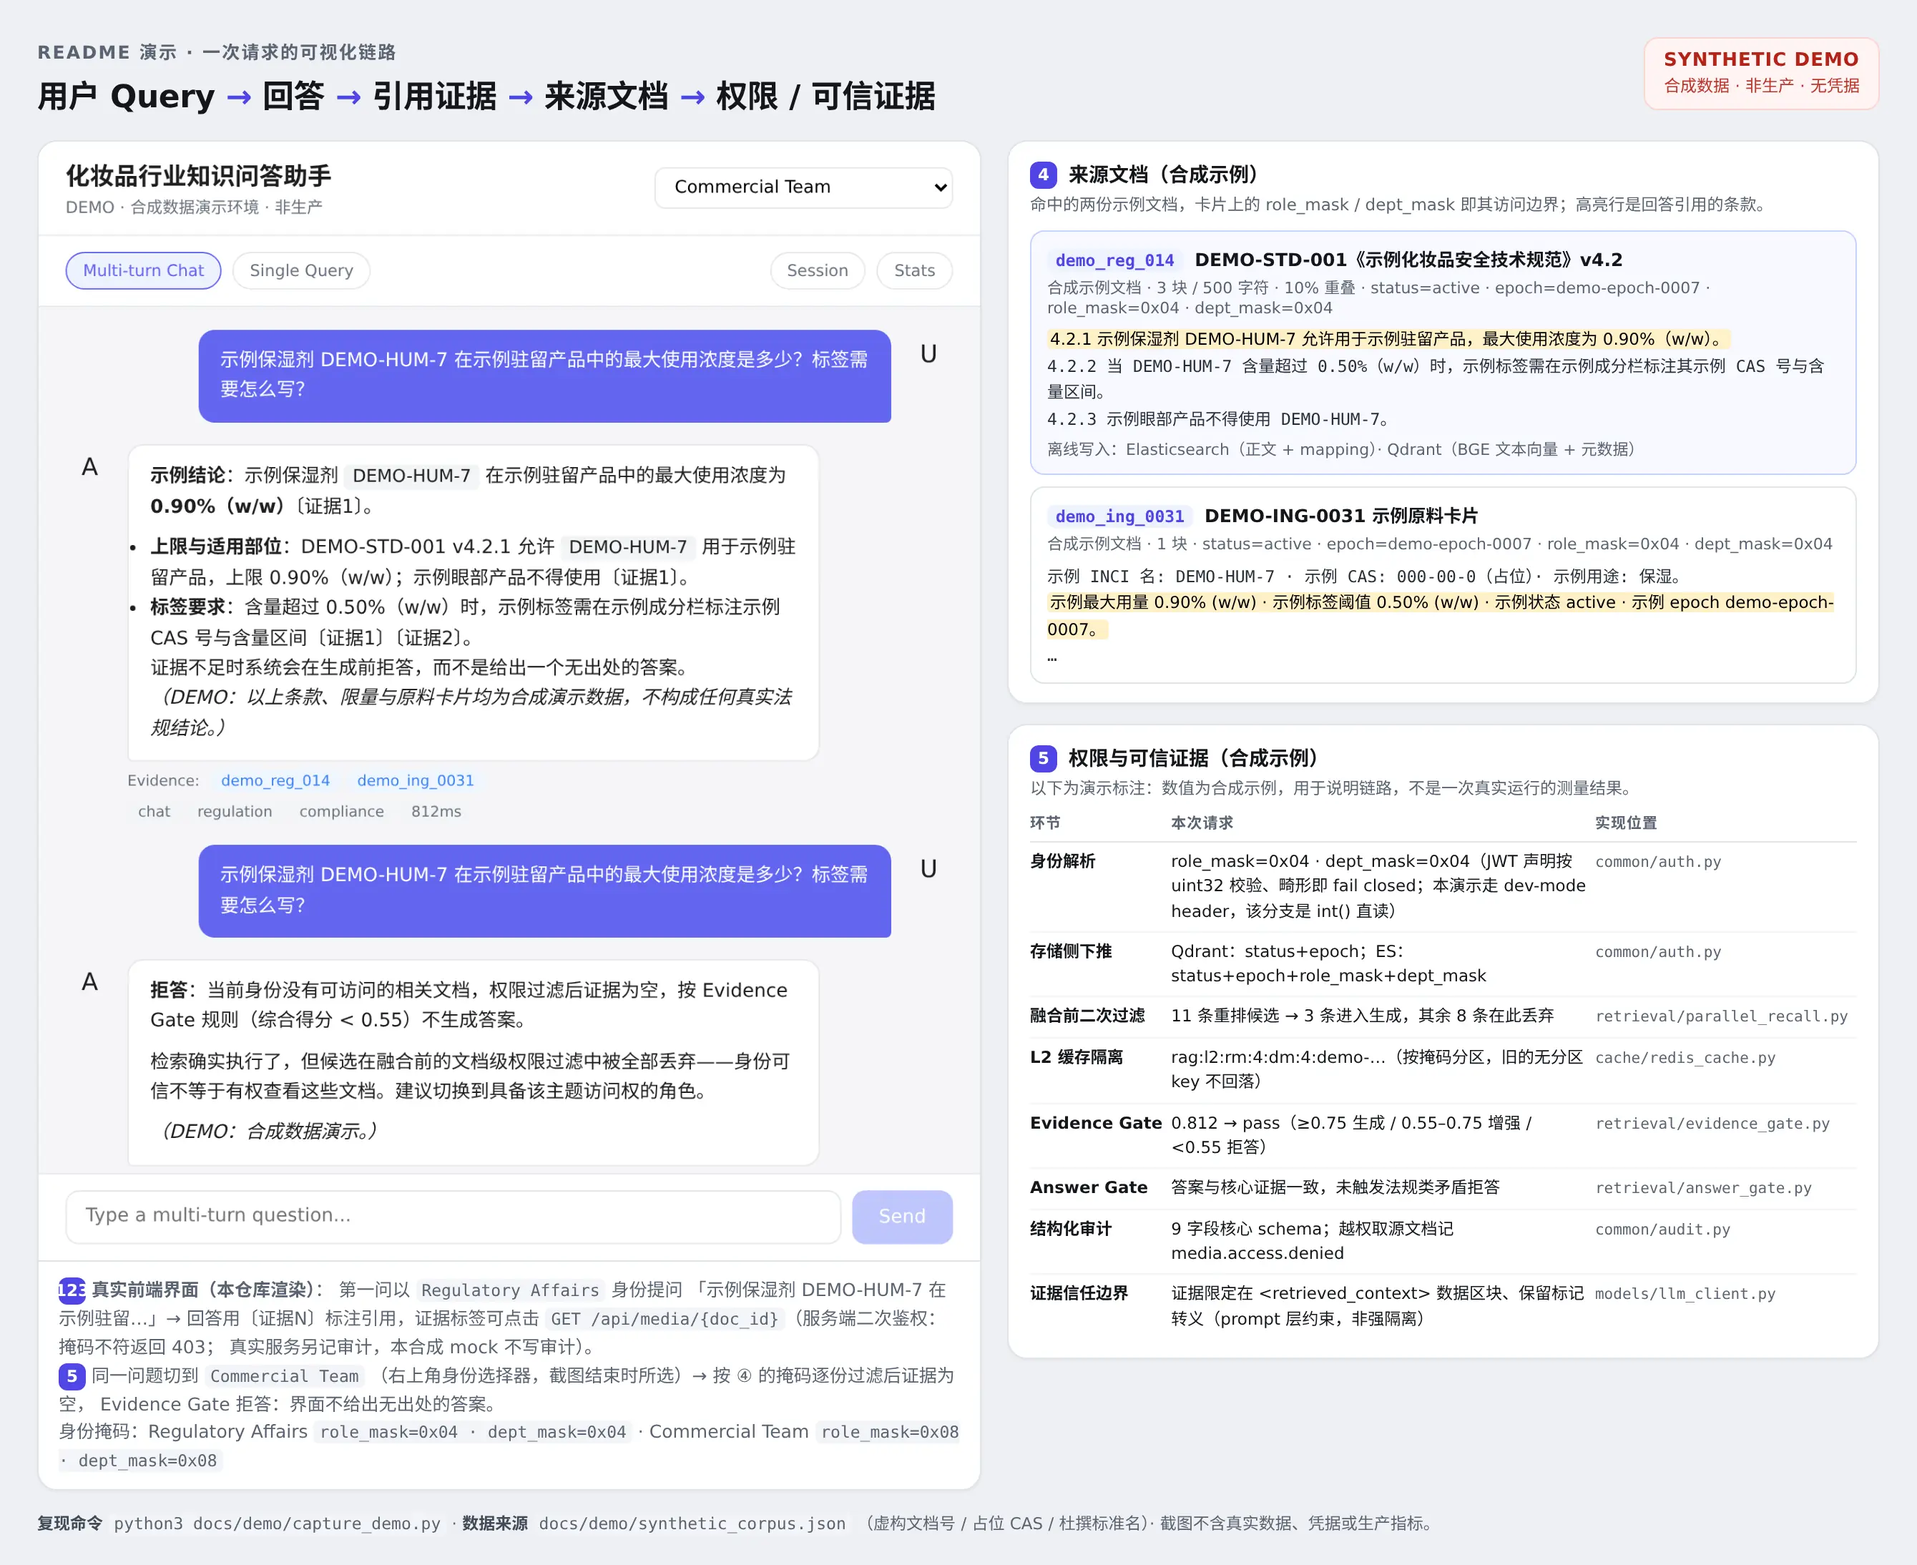
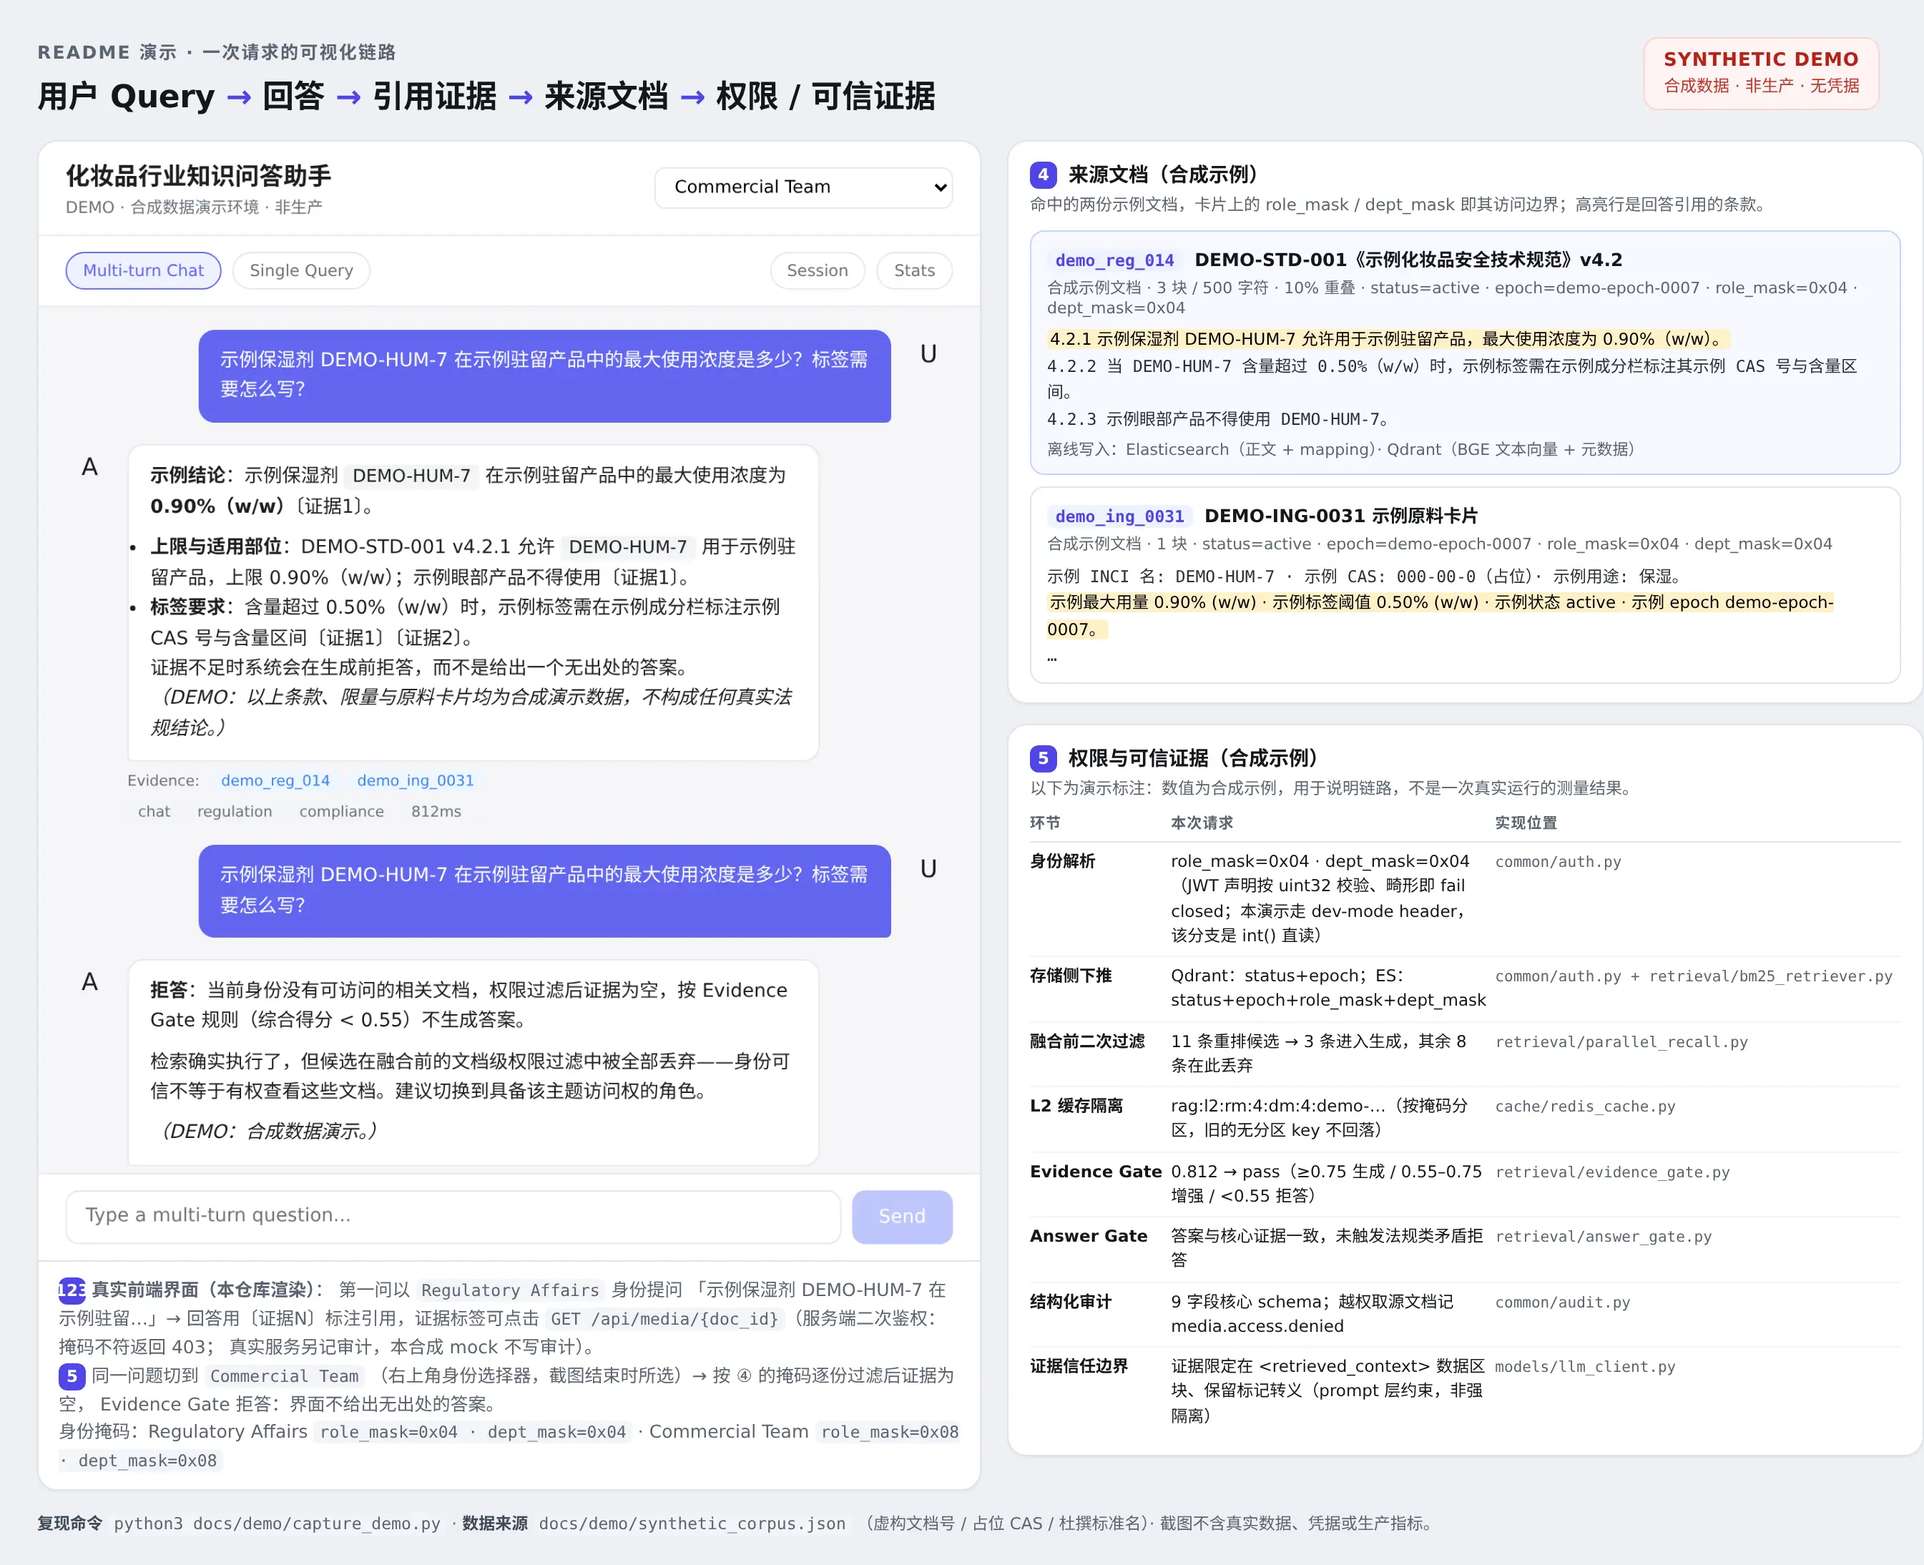
fix(demo): cite both storage implementations, and enforce the disclosure rule
Nineteenth Codex pass, two P2s on claims the figure and the docs were making.

The storage row verified half its claim
----------------------------------------
It claimed "ES: status+epoch+role_mask+dept_mask" while citing only
`common/auth.py`, which builds the *Qdrant* filter and delegates nothing to
Elasticsearch. Those filters live in `BM25Retriever._build_es_query`. A reader
following the pointer could not confirm the ES half, which is the opposite of the
README's promise that every row names the real implementation. Both files are
cited now, and the trace test learned to split on `+` so a multi-file row checks
each path.

Checking that a cited file exists was not enough on its own — the point is not
that the path resolves but that it holds the implementation. A second test asserts
the Qdrant helper is in one cited file and that the ES builder in the other still
filters on status, role_mask and dept_mask, so moving either one fails the row
instead of quietly making it decorative.

The disclosure rule existed only in prose
-----------------------------------------
`docs/demo/README.md` said the `SYNTHETIC DEMO` badge, the frontend subtitle and
the `(DEMO：…)` marker in each answer all appear in the image, that deleting a
marker amounts to fabrication, and that the script refuses such input. The badge
and captions are baked into the generator and cannot be lost. The other three come
from `synthetic_corpus.json` and nothing checked them — so a later edit to the
[…]

diff --git a/tests/test_demo_corpus_rbac_consistency.py b/tests/test_demo_corpus_rbac_consistency.py
@@ -16,6 +16,7 @@ works against a live Qdrant / Elasticsearch / Redis deployment.
 
 from __future__ import annotations
 
+import copy
 import importlib.util
 import json
 import threading
@@ -523,6 +524,16 @@ def test_the_mock_fixture_is_stricter_than_the_service_and_says_so():
     assert "stricter on purpose" in source
 
 
+def _cited_files(row: dict) -> list[Path]:
+    """Every file a trace row cites, split on the " + " separator."""
+    return [REPO_ROOT / part.strip() for part in row["code"].split("+")]
+
+
+def _cited_paths(row: dict) -> set[str]:
+    """The cited paths as written in the corpus, for comparison."""
+    return {part.strip() for part in row["code"].split("+")}
+
+
 def test_every_trace_row_points_at_a_file_that_exists_and_is_the_real_implementation():
     """The README claims each annotation row points at the file that really
     implements the step. `api/dependencies.py` was cited for identity resolution
@@ -534,9 +545,9 @@ def test_every_trace_row_points_at_a_file_that_exists_and_is_the_real_implementa
     behaviour lives.
     """
     for row in CORPUS["trace"]["rows"]:
-        target = REPO_ROOT / row["code"]
-        assert target.is_file(), f"{row['step']} points at missing {row['code']}"
-        source = target.read_text(encoding="utf-8")
+        for target in _cited_files(row):
+            assert target.is_file(), f"{row['step']} points at missing {target.relative_to(REPO_ROOT)}"
+        source = _cited_files(row)[0].read_text(encoding="utf-8")
         if "backward" in source.lower() and "alias" in source.lower():
             pytest.fail(
                 f"{row['step']} points at {row['code']}, which is only a backward-compatibility alias; "
@@ -552,3 +563,153 @@ def test_the_identity_row_points_at_the_module_that_parses_masks():
     assert row["code"] == "common/auth.py", row["code"]
     source = (REPO_ROOT / row["code"]).read_text(encoding="utf-8")
     assert "int(role_str)" in source, "the cited module is no longer the one reading dev-mode masks"
+
+
+def test_a_row_claiming_two_stores_cites_both_implementations():
+    """The regression: the storage row claimed "ES: status+epoch+role_mask+dept_mask"
+    while citing only `common/auth.py`, which builds the *Qdrant* filter and
+    delegates nothing to Elasticsearch. `BM25Retriever._build_es_query` is where
+    the ES filters live, so following the pointer could not verify half the claim.
+    """
+    row = next(row for row in CORPUS["trace"]["rows"] if row["step"] == "存储侧下推")
+
+    cited = _cited_paths(row)
+    assert "common/auth.py" in cited, row["code"]
+    assert "retrieval/bm25_retriever.py" in cited, (
+        f"the ES half of {row['demo']} is implemented elsewhere: {row['code']}"
+    )
+
+
+def test_each_cited_file_really_implements_part_of_the_row_it_is_cited_for():
+    """Named per file so the check is about the claim, not about the path
+    existing: the ES filters must be visible in the file the row now names."""
+    row = next(row for row in CORPUS["trace"]["rows"] if row["step"] == "存储侧下推")
+    by_path = {part.strip(): (REPO_ROOT / part.strip()).read_text(encoding="utf-8") for part in row["code"].split("+")}
+
+    assert "build_qdrant_filter" in by_path["common/auth.py"], "the Qdrant helper moved"
+    es_source = by_path["retrieval/bm25_retriever.py"]
+    assert "_build_es_query" in es_source, "the ES query builder moved"
+    for field in ("status", "role_mask", "dept_mask"):
+        assert field in es_source, f"the cited ES builder no longer filters on {field}"
+
+
+# ── the disclosures that make the image honest are enforced ─────────────
+def _capture_module():
+    import importlib.util
+
+    spec = importlib.util.spec_from_file_location("demo_capture_disclosures", DEMO_DIR / "capture_demo.py")
+    module = importlib.util.module_from_spec(spec)
+    spec.loader.exec_module(module)
+    return module
+
+
+CAPTURE_SCRIPT = _capture_module()
+
+
+def test_the_shipped_corpus_satisfies_its_own_disclosure_requirement():
+    """Nothing to assert about the rule here — that the corpus as committed
+    passes it. Every other test in this file assumes it does."""
+    CAPTURE_SCRIPT.require_disclosures(CORPUS)
+
+
+def test_removing_the_answer_marker_is_refused():
+    """The regression: `docs/demo/README.md` said the script refuses a corpus
+    whose synthetic markers are deleted, and nothing checked. The badge and
+    captions are baked into the generator, but the marker inside each answer and
+    the subtitle the real frontend renders come from the JSON — so an edit there
+    produced a committed screenshot with no label on it.
+    """
+    stripped = copy.deepcopy(CORPUS)
+    stripped["answer_markdown"] = stripped["answer_markdown"].replace("\uff08DEMO\uff1a", "(")
+
+    with pytest.raises(SystemExit) as excinfo:
+        CAPTURE_SCRIPT.require_disclosures(stripped)
+    assert "answer_markdown" in str(excinfo.value)
+
+
+def test_removing_the_refusal_marker_is_refused():
+    """The refusal branch is rendered too, so its marker matters as much."""
+    stripped = copy.deepcopy(CORPUS)
+    stripped["answer_refusal_markdown"] = stripped["answer_refusal_markdown"].replace("\uff08DEMO\uff1a", "(")
+
+    with pytest.raises(SystemExit):
+        CAPTURE_SCRIPT.require_disclosures(stripped)
+
+
+def test_replacing_the_subtitle_with_a_plausible_one_is_refused():
+    """Not only deleting it. An ordinary-looking subtitle is the more dangerous
+    edit, because the screenshot still renders and still looks right."""
+    relabelled = copy.deepcopy(CORPUS)
+    relabelled["auth_metadata"]["app"]["subtitle"] = (
+        "\u5316\u5986\u54c1\u884c\u4e1a\u77e5\u8bc6\u95ee\u7b54\u52a9\u624b"
+    )
+
+    with pytest.raises(SystemExit) as excinfo:
+        CAPTURE_SCRIPT.require_disclosures(relabelled)
+    assert "subtitle" in str(excinfo.value)
+
+
+@pytest.mark.parametrize("field", ["answer_markdown", "answer_refusal_markdown", "auth_metadata"])
+def test_a_missing_field_is_refused_rather_than_crashing(field):
+    """A fixture edit that removes a key should produce the intended refusal, not
+    a KeyError traceback from inside the checker."""
+    incomplete = copy.deepcopy(CORPUS)
+    if field == "auth_metadata":
+        incomplete["auth_metadata"].pop("app")
+    else:
+        incomplete.pop(field)
+
+    with pytest.raises(SystemExit) as excinfo:
+        CAPTURE_SCRIPT.require_disclosures(incomplete)
+    assert field.split(".")[0] in str(excinfo.value)
+
+
+def test_every_missing_disclosure_is_reported_at_once():
+    """One run should list everything that is wrong, not surface them one
+    capture attempt at a time."""
+    broken = copy.deepcopy(CORPUS)
+    broken["answer_markdown"] = "no marker here"
+    broken["answer_refusal_markdown"] = "no marker here"
+    broken["auth_metadata"]["app"]["subtitle"] = "plain"
+
+    with pytest.raises(SystemExit) as excinfo:
+        CAPTURE_SCRIPT.require_disclosures(broken)
+
+    message = str(excinfo.value)
+    for field in ("answer_markdown", "answer_refusal_markdown", "subtitle"):
+        assert field in message, field
+
+
+def test_the_check_runs_before_anything_is_rendered(tmp_path, monkeypatch):
+    """Ordering is the point: refusing after the servers are up would still have
+    started them, and refusing after the image is written would already have
+    produced the unlabelled artifact."""
+    import json as _json
+    import sys
+
+    started: list[str] = []
+    monkeypatch.setattr(CAPTURE_SCRIPT, "CORPUS_PATH", tmp_path / "synthetic_corpus.json")
+    stripped = copy.deepcopy(CORPUS)
+    stripped["answer_markdown"] = "no marker"
+    (tmp_path / "synthetic_corpus.json").write_text(_json.dumps(stripped, ensure_ascii=False), encoding="utf-8")
+    monkeypatch.setattr(CAPTURE_SCRIPT, "start_mock_api", lambda *a, **k: started.append("mock") or None)
+    monkeypatch.setattr(CAPTURE_SCRIPT, "start_frontend", lambda *a, **k: started.append("frontend") or None)
+    # Everything past the servers is stubbed too: if the guard is ever removed, the
+    # failure should be a fast assertion, not a real Chromium launch against a port
+    # nothing is listening on.
+    monkeypatch.setattr(CAPTURE_SCRIPT, "drive_frontend", lambda *a, **k: "PNG")
+    monkeypatch.setattr(CAPTURE_SCRIPT, "capture", lambda app, fonts, out, quality: (out.write_bytes(b"x"), out)[1])
+    # `--no-font-download` so a regression fails without reaching for the network:
+    # a unit test that starts fetching a font subset when its guard is removed is
+    # slow and non-hermetic exactly when it is most needed.
+    monkeypatch.setattr(
+        sys,
+        "argv",
+        ["capture_demo.py", "--out", str(tmp_path / "hero.webp"), "--no-font-download"],
+    )
+
+    with pytest.raises(SystemExit) as excinfo:
+        CAPTURE_SCRIPT.main()
+
+    assert "answer_markdown" in str(excinfo.value)
+    assert started == [], f"servers were started before the refusal: {started}"

diff --git a/docs/demo/capture_demo.py b/docs/demo/capture_demo.py
@@ -133,6 +133,50 @@ def html_visible_text(markup: str) -> str:
     return html.unescape(markup)
 
 
+#: Substrings that must survive in the corpus for the rendered image to be
+#: honestly labelled. Each is checked before anything is rendered, so a later edit
+#: to the fixture cannot quietly produce an unlabelled screenshot.
+REQUIRED_DISCLOSURES = (
+    ("auth_metadata.app.subtitle", lambda c: c["auth_metadata"]["app"]["subtitle"], ("DEMO", "非生产")),
+    ("answer_markdown", lambda c: c["answer_markdown"], ("（DEMO：",)),
+    ("answer_refusal_markdown", lambda c: c["answer_refusal_markdown"], ("（DEMO：",)),
+)
+
+
+def require_disclosures(corpus: dict) -> None:
+    """Refuse to render a corpus whose synthetic labels have been removed.
+
+    The badge and the captions in this file are baked in, so they cannot be lost.
+    These three come from `synthetic_corpus.json` and can be: the subtitle the
+    real frontend renders, and the marker inside each answer. Without the check
+    they were a promise in prose only — `docs/demo/README.md` already said that
+    deleting a marker amounts to fabrication and that the script refuses such
+    input, and it did not.
+
+    Failing here costs a second; failing later costs a committed screenshot that
+    misrepresents synthetic output as a result.
+    """
+    missing: list[str] = []
+    for field, read, needles in REQUIRED_DISCLOSURES:
+        try:
+            value = read(corpus)
+        except (KeyError, TypeError):
+            missing.append(f"{field}: absent")
+            continue
+        if not isinstance(value, str):
+            missing.append(f"{field}: not a string")
+            continue
+        for needle in needles:
+            if needle not in value:
+                missing.append(f"{field}: missing {needle!r}")
+    if missing:
+        raise SystemExit(
+            "refusing to render: the synthetic corpus lost a disclosure that makes this image honest.\n"
+            + "\n".join(f"  - {item}" for item in missing)
+            + "\nSee docs/demo/README.md — an unlabelled screenshot would present synthetic values as results."
+        )
+
+
 def render_charset(corpus: dict) -> str:
     """Every character the capture can possibly render.
 
@@ -691,6 +735,8 @@ def main() -> None:
     BUILD_DIR.mkdir(parents=True, exist_ok=True)
     with CORPUS_PATH.open(encoding="utf-8") as handle:
         corpus = json.load(handle)
+
+    require_disclosures(corpus)
 
     if args.no_font_download:
         print("· --no-font-download: rendering through the system CJK fonts, no network access")

diff --git a/README.md b/README.md
@@ -95,7 +95,7 @@ Runtime version `2.3.0`（`config.json` → `system.version`）。CI 配置见 `
 
 | 口径 | 事实 |
 |---|---|
-| **仓库规模（可复核）** | 246 个 tracked Python 文件 / 64,946 行；86 个定义了测试的测试文件、1,678 个 `def test_` 函数，`pytest --collect-only` 展开参数化后共 **2,001 个用例**；CI 覆盖 Python 3.10 与 3.11 |
+| **仓库规模（可复核）** | 246 个 tracked Python 文件 / 65,153 行；86 个定义了测试的测试文件、1,687 个 `def test_` 函数，`pytest --collect-only` 展开参数化后共 **2,012 个用例**；CI 覆盖 Python 3.10 与 3.11 |
 | **已实现且有测试覆盖**（`REPO_VERIFIED`） | FastAPI 主链路、离线管线全流程、加权 RRF、两级重排、双 Gate、4B/14B 路由契约、RS256 认证、uint32 RBAC、检索信任边界、指标端点、结构化审计、性能产物**框架**、告警规则、Grafana JSON、SLO/Runbook 文档、OTLP exporter 实现、检索 benchmark **框架** |
 | **框架 ≠ 结果** | 检索 benchmark（Recall@1/3/5/10、HitRate@1/3/5/10、MRR@10、NDCG@10）与性能产物七文件契约都是 `REPO_VERIFIED`（框架）/ `PENDING`（结果）——仓库内**没有任何可复现的真实 benchmark artifact**，因此全仓库不引用任何检索指标数字 |
 | **性能数字** | **本仓库没有可复现的 QPS / 延迟 benchmark 结果。** 仓库中的性能数值仅允许在 `HISTORICAL_PRODUCTION`（历史生产观测，如 10–15 QPS）、`DESIGN_TARGET`（SLO / 告警阈值）或 `SYNTHETIC DEMO`（README 演示夹具中的合成值）三类明确语义下出现，**均不得表述为本仓库实测结果**；5 个 SLO 目标与告警阈值都是 `DESIGN_TARGET`，不是实测 |
@@ -257,7 +257,7 @@ python3 scripts/check_repo_consistency.py
 
 **Q2 · 系统规模有多大？**
 分两个口径，不能混：
-- **本仓库可复核规模**：246 个 Python 文件 / 64,946 行 / 86 个定义了测试的测试文件 / 2,001 个收集到的测试用例，CI 覆盖 Python 3.10 与 3.11。
+- **本仓库可复核规模**：246 个 Python 文件 / 65,153 行 / 86 个定义了测试的测试文件 / 2,012 个收集到的测试用例，CI 覆盖 Python 3.10 与 3.11。
 - **历史生产规模**（`HISTORICAL_PRODUCTION`，不可由本仓库复现）：3000+ 文档、5000+ 图片、1500+ 产品、2000+ 成分、8 大法规体系、200+ 内部用户、高峰短时 10–15 QPS、日均 1500+ 请求，RTX A5000 ×2 推理，后阶段完成 Qwen2.5 → Qwen3-14B/4B 灰度迁移。
 本仓库**没有任何 benchmark artifact**，所以我不给本仓库报任何 QPS 或延迟数字。
 
